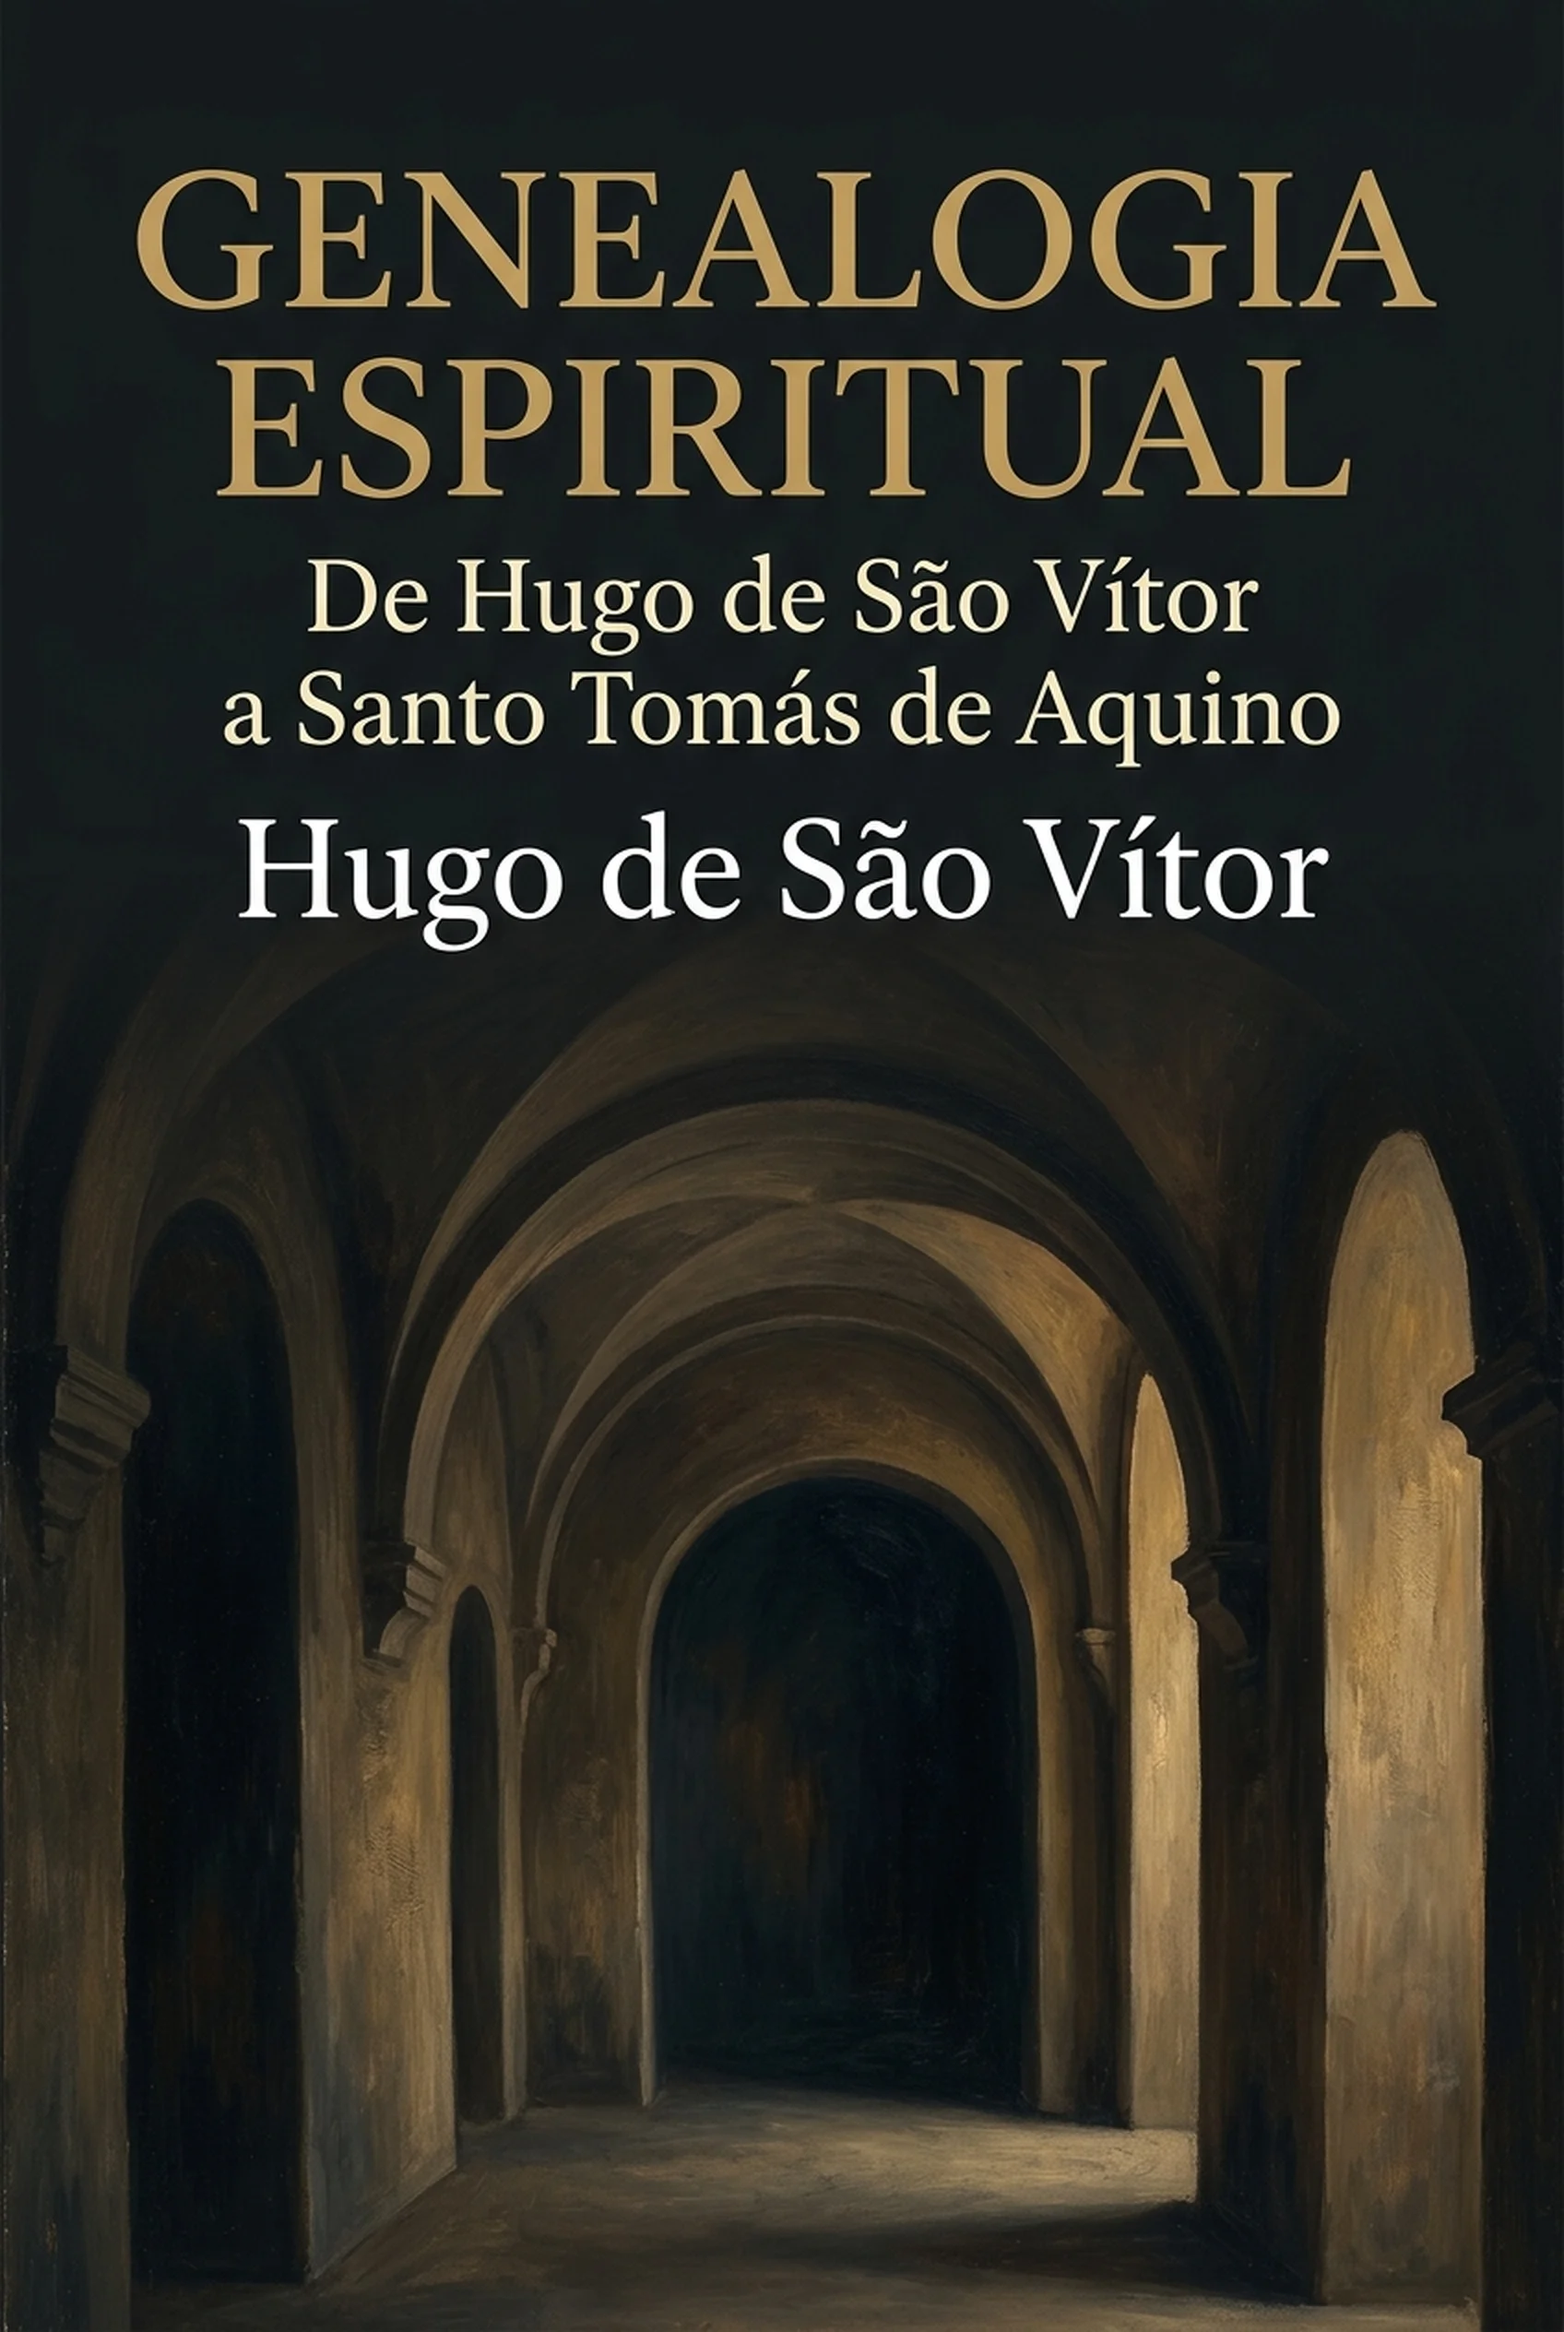
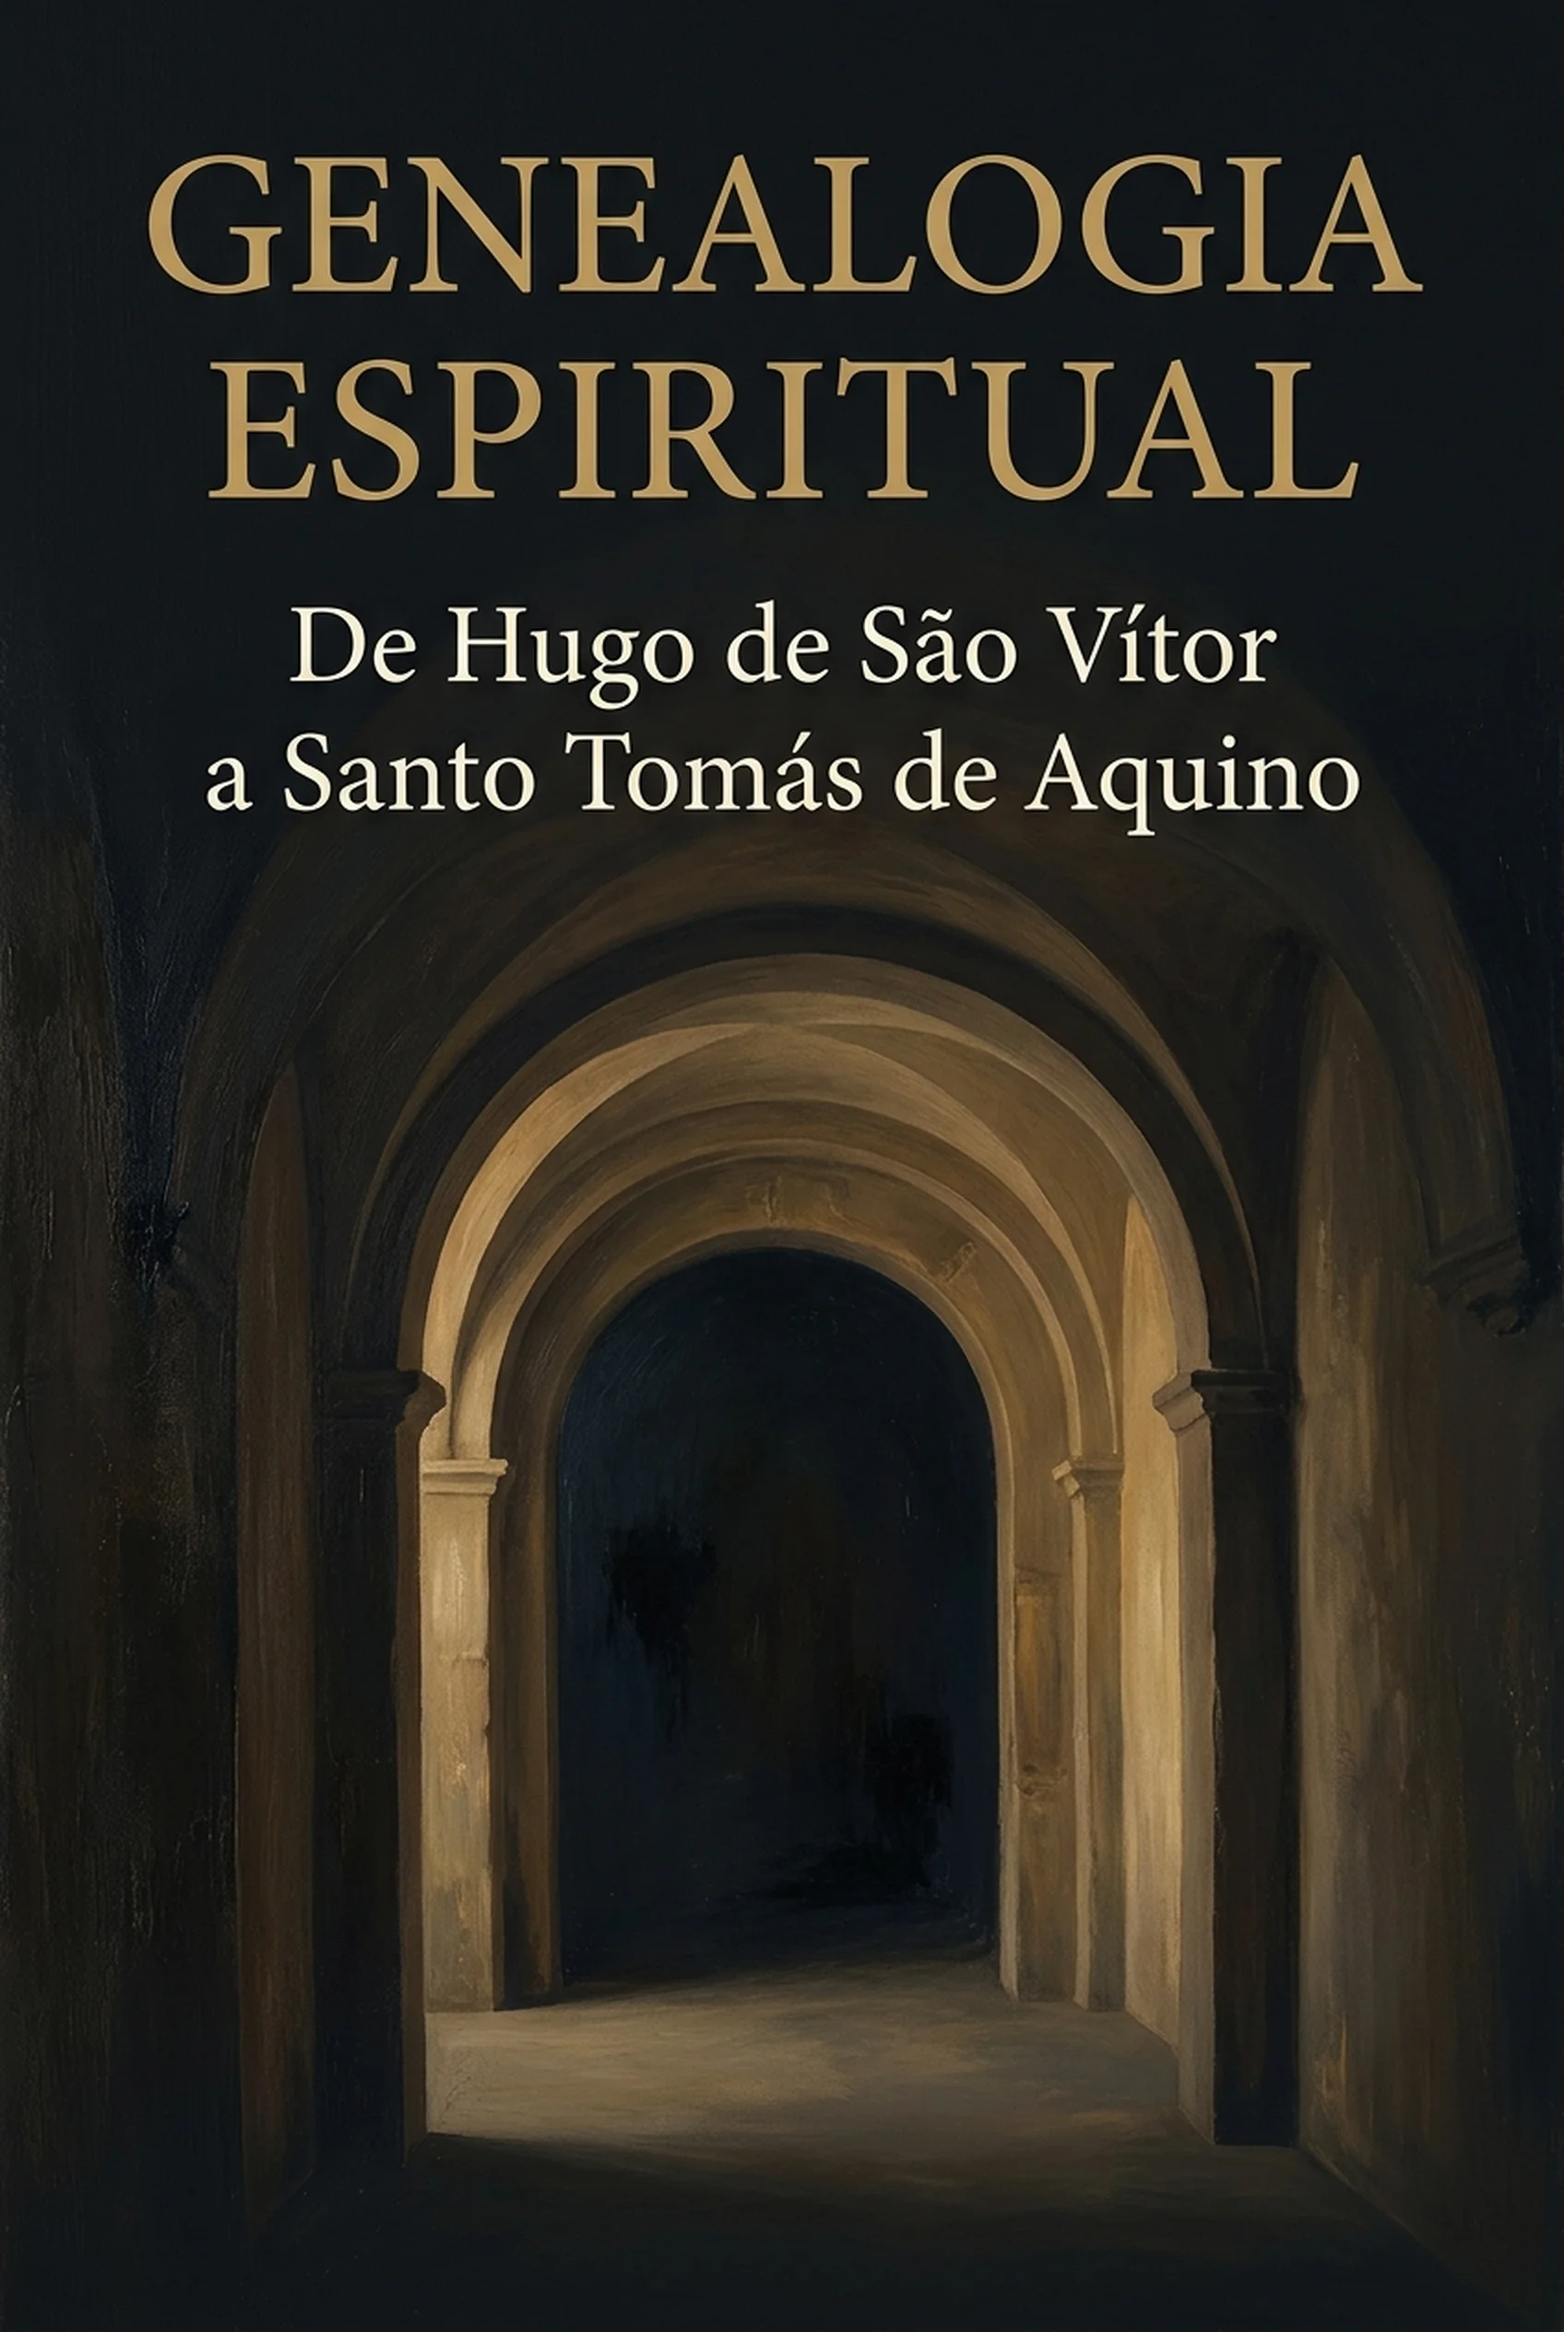
Atualizando autor original do ensaio

diff --git a/content/books/hugo-de-sao-vitor/genealogia-espiritual-de-hugo-e-sao-tomas.md b/content/books/hugo-de-sao-vitor/genealogia-espiritual-de-hugo-e-sao-tomas.md
@@ -1,6 +1,6 @@
 ---
 title: "Genealogia Espiritual de Hugo de São Vítor e Santo Tomás de Aquino"
-author: "Hugo de São Vítor"
+author: "Editorial cristianismo.org.br"
 summary: "Estudo histórico-teológico e biobibliográfico que traça a linhagem espiritual e exegética da tradição patrística (Padres Alexandrinos, Agostinho, Dionísio Areopagita, Boécio, Cassiodoro) até o florescimento da Escola de São Vítor com Hugo e Ricardo de São Vítor, culminando na síntese escolástica de Santo Tomás de Aquino."
 date: "1997"
 license: "CC BY-NC 4.0"
